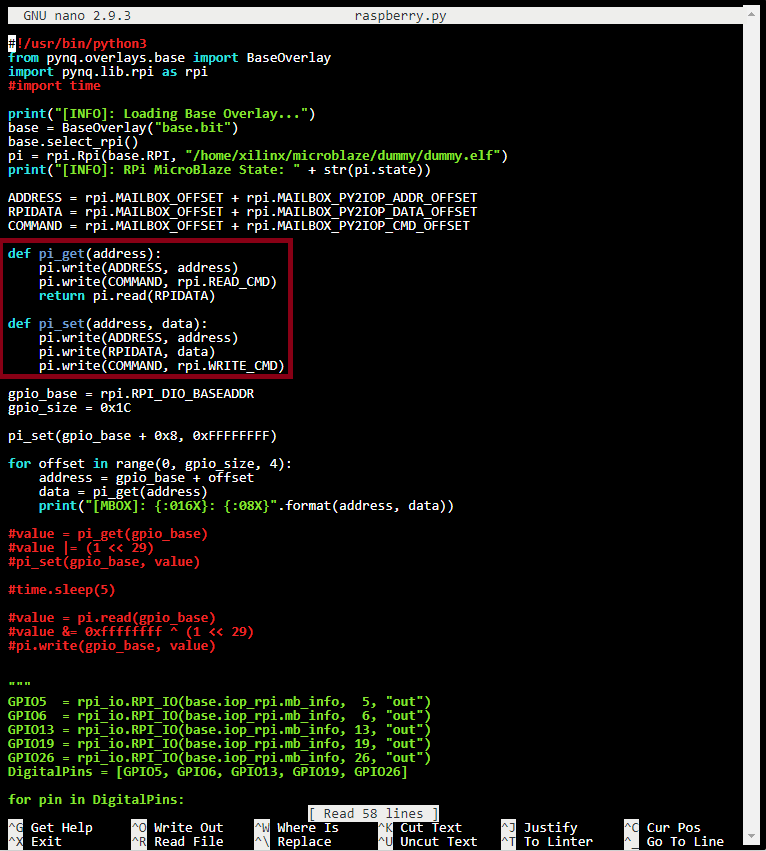
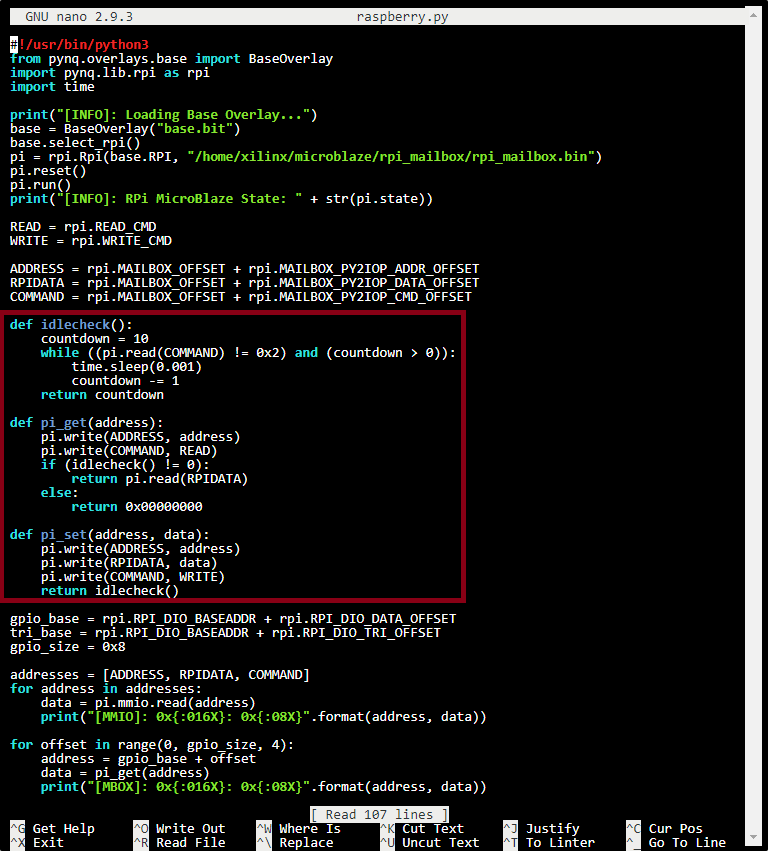
Tested RPi Mailbox for Reliability

Changed region(s): [[0.0, 0.0, 0.7807, 1.0], [0.8107, 0.9471, 0.9909, 1.0], [0.4504, 0.0, 0.6005, 0.0306]]

diff --git a/gpio/README.md b/gpio/README.md
@@ -1,2 +1,4 @@
+# GPIO API
 ![screenshot](https://github.com/themindvirus/microblaze/blob/main/gpio/api.png)
+# Mailbox Engine
 ![screenshot](https://github.com/themindvirus/microblaze/blob/main/gpio/mbox.png)
